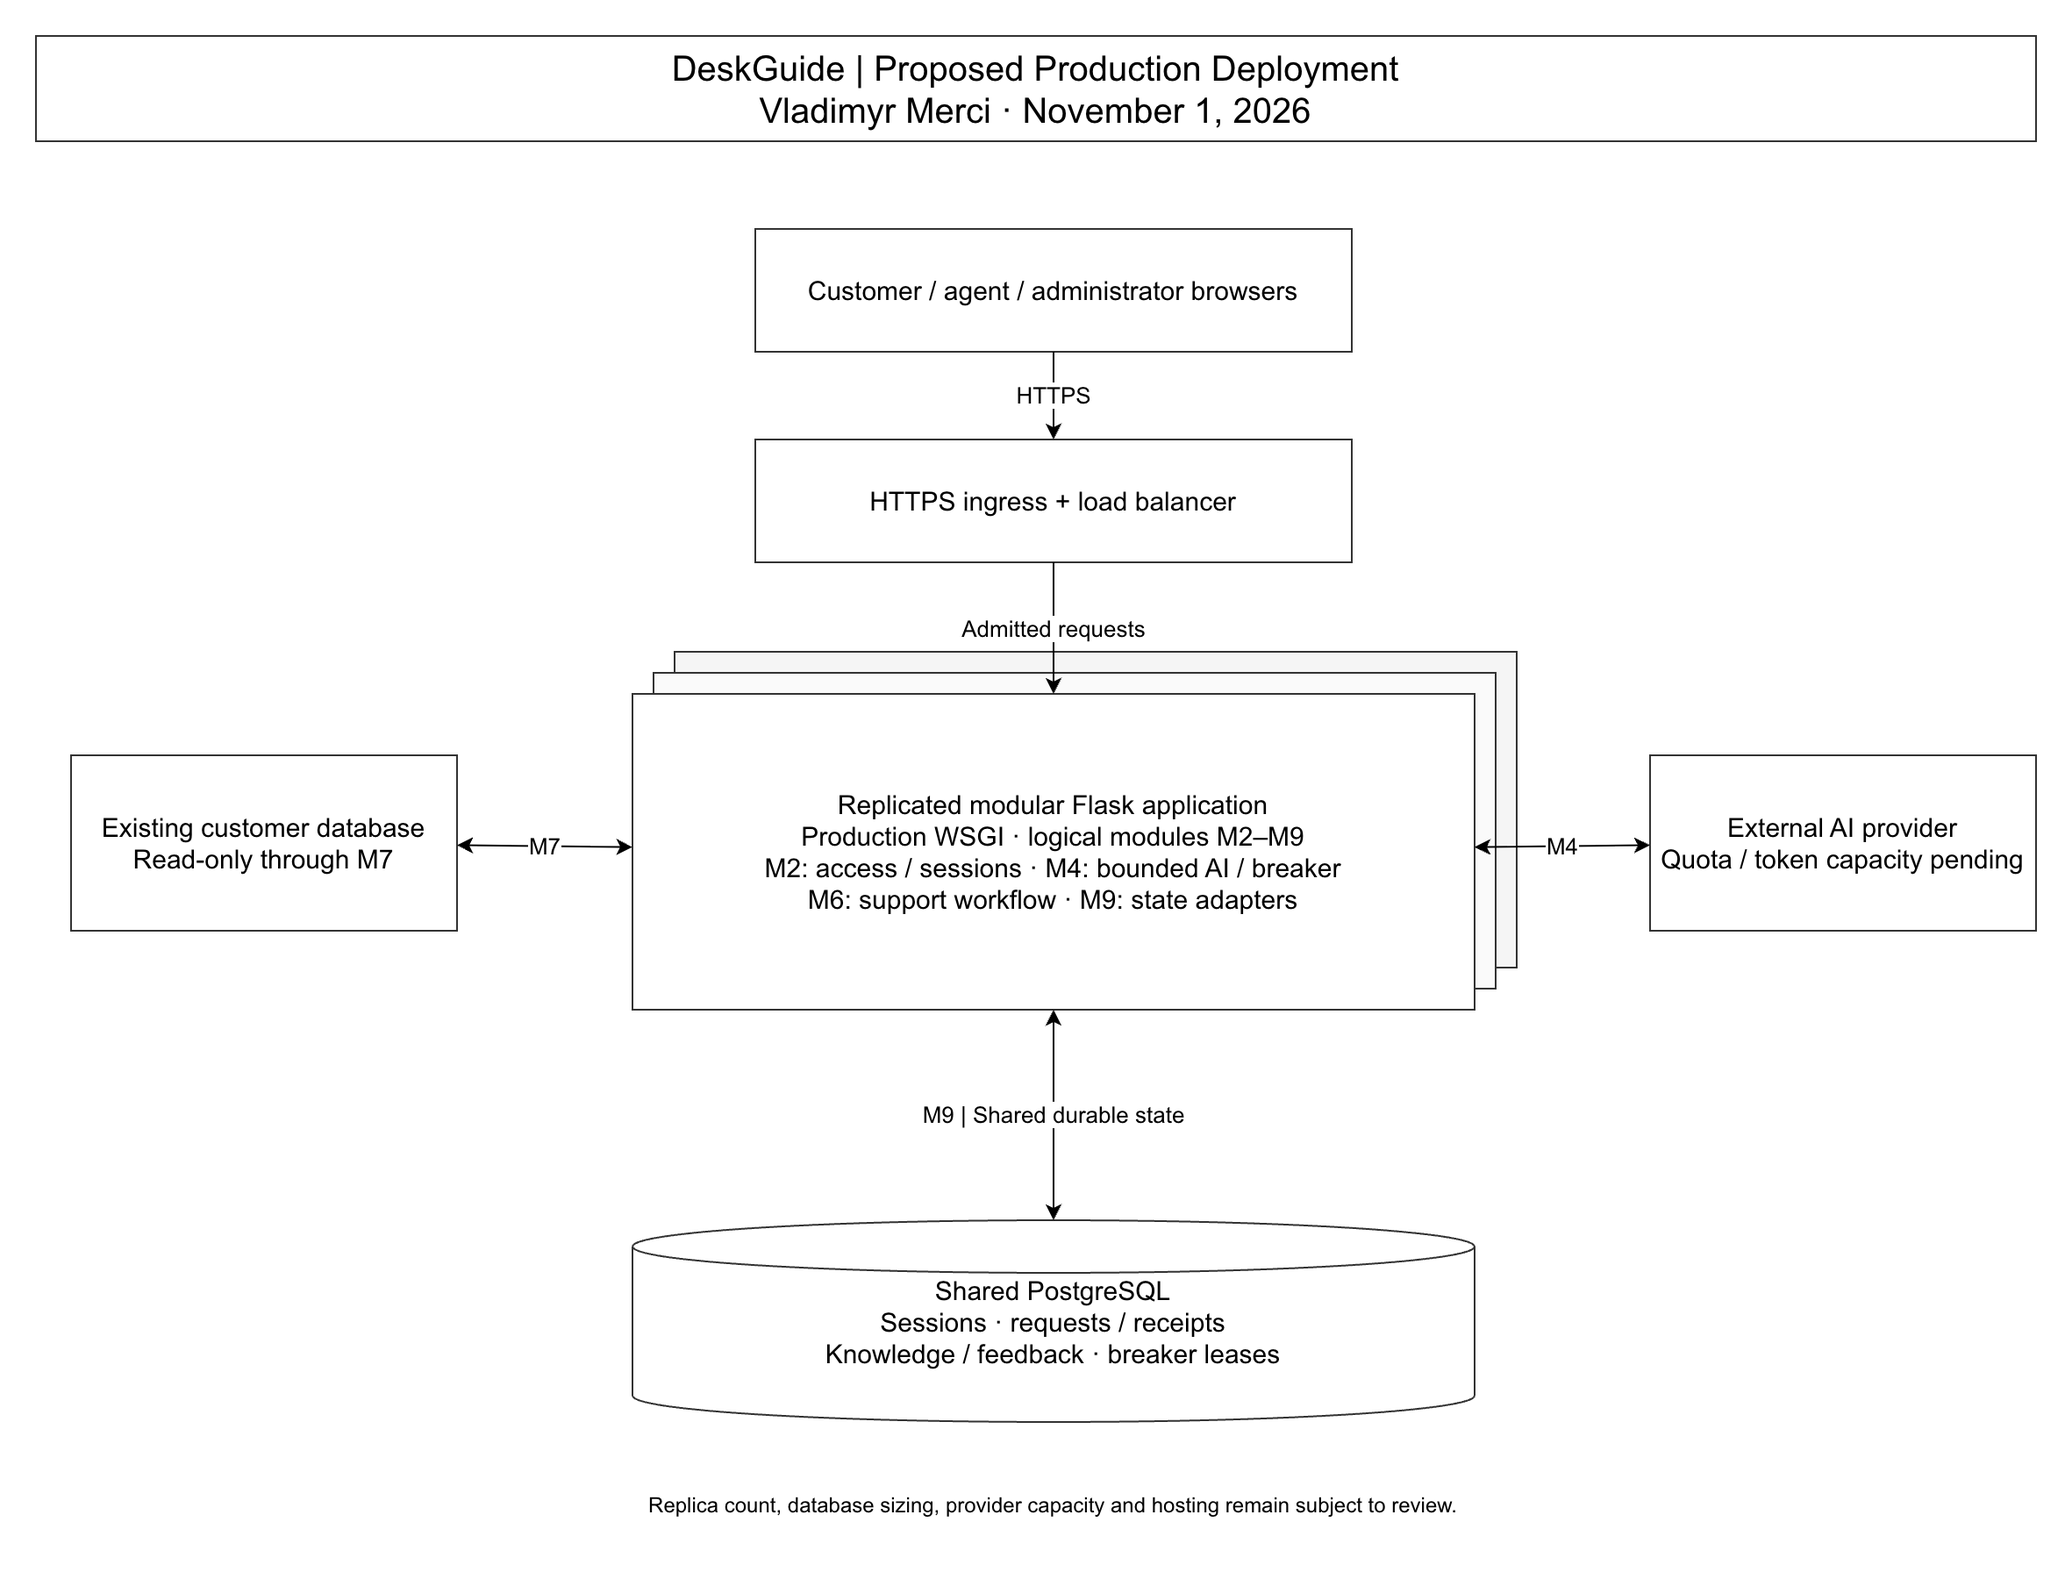
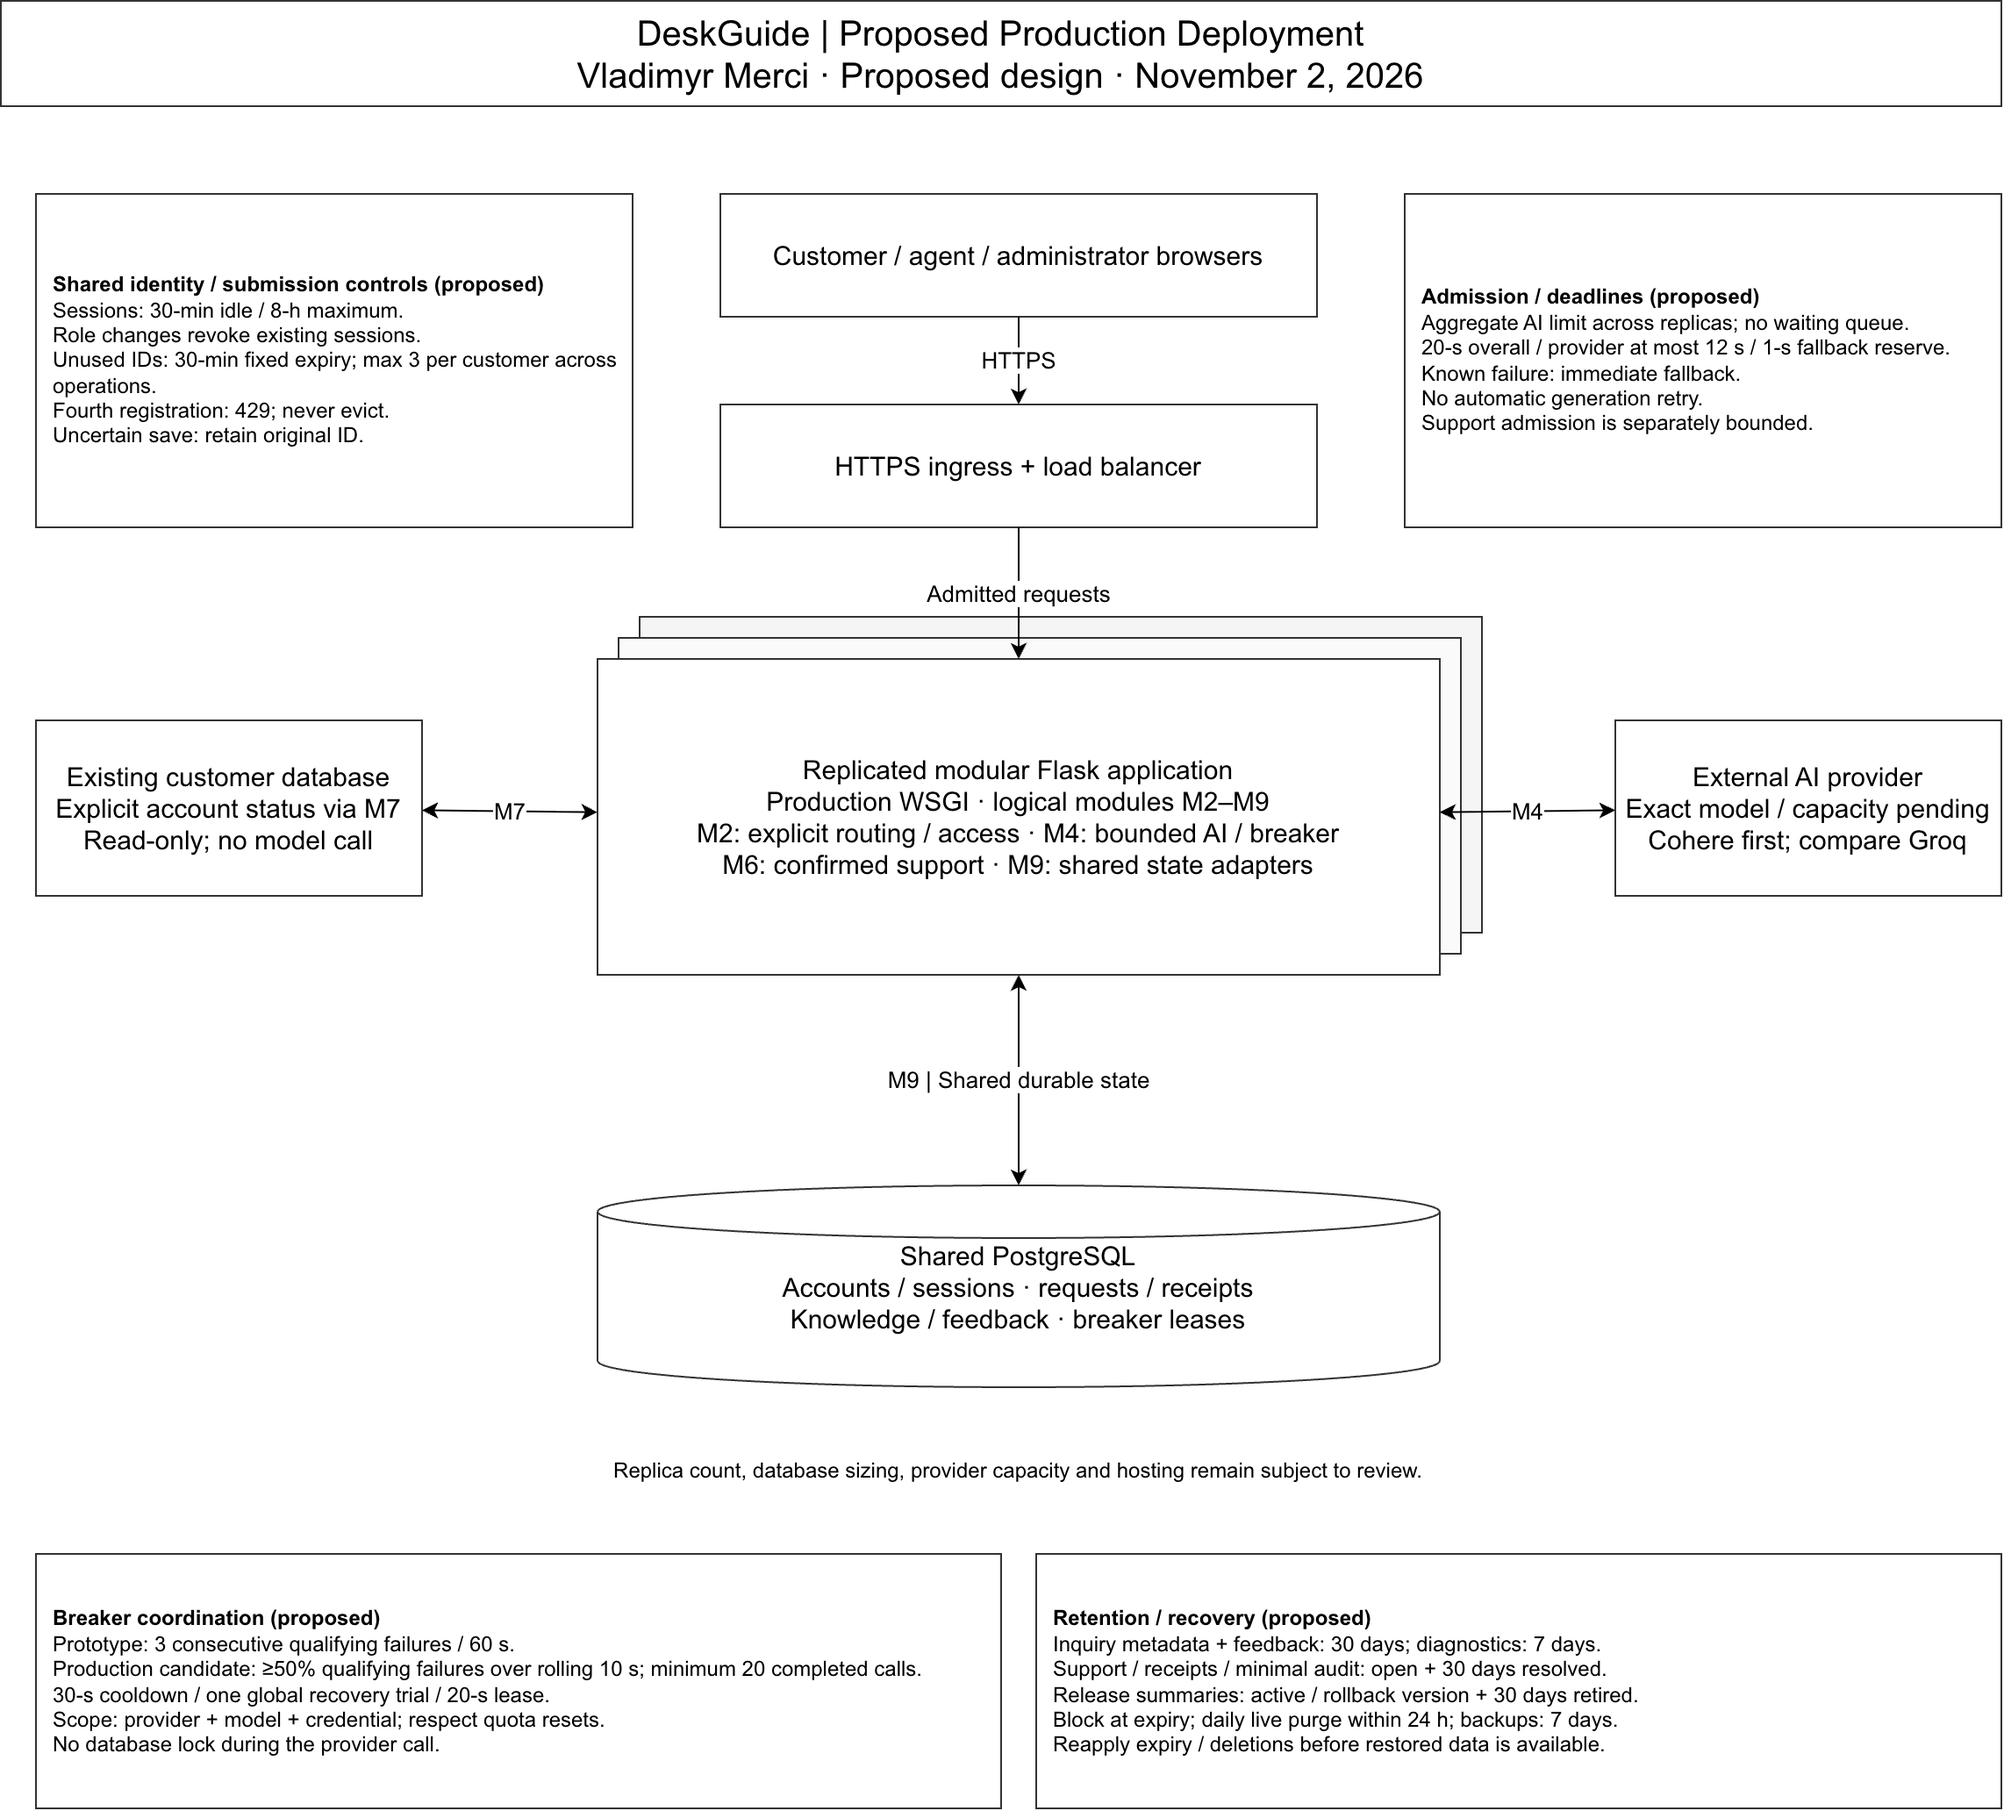
Align architecture diagrams with revised Unit 3 proposals

diff --git a/docs/unit-3/design-decisions-and-review-log.md b/docs/unit-3/design-decisions-and-review-log.md
@@ -1,6 +1,6 @@
 # Unit 3 Design Decisions and Review Log
 
-Coordinator: Vladimyr Merci, Lead Architect. Updated: November 2, 2026. Revision 5.
+Coordinator: Vladimyr Merci, Lead Architect. Updated: November 2, 2026. Revision 6.
 
 I have worked through the open architecture questions and collected my proposed solutions here. Please review the items assigned to your role, flag concerns, and provide the requested clarification or evidence. I will reconcile the replies before assembling the final specification.
 
@@ -20,7 +20,7 @@ I have worked through the open architecture questions and collected my proposed 
 | [David's Draft 3.1 review](https://github.com/vlad8110/deskguide/pull/17#pullrequestreview-5738959296) | November 2, review of `0e7f855` | Conditional acceptance of 30-minute/eight-hour sessions and 30-minute unused IDs; save-metric, retention, evidence and breaker follow-up |
 | [Assignment requirements](assignment-requirements.md) | Course instructions linked there | Diagram, typed contracts, 500-word rationale; 10,000 concurrent users without a specified inquiry frequency or latency target |
 
-The [shared Google Doc](https://docs.google.com/document/d/1wdhA6LgOib5h5mo8p6onD87kleM75OCan0gPUZMNuC4/edit) and [shared draw.io diagram](https://app.diagrams.net/#G1E3yDdOnoZSku1W8ejSJnkibDA3NcrGXO) remain the editable architecture review sources. The [complete architecture review document](architecture-first-draft/architecture-review.md), written sections and two-page diagram copies are the November 1 shared-source snapshots. The [November 2 proposed decisions](proposed-decisions.md) are the current review direction; shared-source alignment and final team agreement remain pending.
+The [shared Google Doc](https://docs.google.com/document/d/1wdhA6LgOib5h5mo8p6onD87kleM75OCan0gPUZMNuC4/edit) and [shared draw.io diagram](https://app.diagrams.net/#G1E3yDdOnoZSku1W8ejSJnkibDA3NcrGXO) remain the editable architecture review sources. The [two-page diagram and PNGs](architecture-first-draft/README.md#diagrams) reflect the November 2 proposals. The [complete architecture review document](architecture-first-draft/architecture-review.md) and written sections retain the November 1 Google Doc wording. Written-source alignment and final team agreement remain pending.
 
 ## 2. Established direction and approval boundaries
 
@@ -291,7 +291,7 @@ Responses to the [complete revised proposal](proposed-decisions.md) are due **Tu
 
 David reviews architecture, Collins contracts, Hanlin AI flows and Vlad verification. Reconcile M1–M9/C1–C10, account/status selectors, permissions, exact state names, bounds, errors, retention, release governance and provider constraints. Hanlin's V-prefixed proposed values and David's V-prefixed test cases are different numbering systems.
 
-The November 1 shared Google Doc/draw.io and repository source snapshots await the November 2 alignment walkthrough. Keep that baseline distinct from the current GitHub proposal. Align the final document, diagram, contracts and rationale, then obtain all four explicit reviews of one identified final version.
+The shared draw.io and repository diagram/PNG copies now reflect the November 2 proposals. The November 1 Google Doc wording and written snapshots await the next alignment walkthrough. Align the final document, diagram, contracts and rationale, then obtain all four explicit reviews of one identified final version.
 
 **Evidence/status:** Vlad reviewed the proposed direction and selected David as backup release authorizer. Final team approval, shared-source alignment and submission remain pending.
 
@@ -345,3 +345,4 @@ After the response cutoff I will consolidate remaining findings and align the fi
 | 3 | 2026-11-01 | David's review recorded; service target, registered submission IDs and focused owner requests | Proposals pending responses and final agreement |
 | 4 | 2026-11-01 | Shared architecture and component/deployment diagram copies aligned with the then-current proposals | Owner evidence and final team approval pending |
 | 5 | 2026-11-02 | Draft 3.1 and David's latest reviews; revised 14-topic proposals, David as backup authorizer, refined measurements/retention/breaker and November 3 response cutoff | Team evidence, shared-source alignment and final-version approvals pending |
+| 6 | 2026-11-02 | Shared component/deployment diagrams revised for current proposals; editable source and PNG previews refreshed | Written-source alignment, owner evidence and final-version approvals pending |

diff --git a/docs/unit-3/architecture-first-draft/README.md b/docs/unit-3/architecture-first-draft/README.md
@@ -1,6 +1,6 @@
 # Unit 3 architecture review
 
-Author: Vladimyr Merci. November 1 shared-source snapshots. Current review direction: [November 2 proposed decisions](../proposed-decisions.md). Shared-source alignment and final approval pending.
+Author: Vladimyr Merci. November 2 diagram revision; November 1 written-source snapshots. Current review direction: [November 2 proposed decisions](../proposed-decisions.md). Written-source alignment and final approval pending.
 
 Read the [complete architecture review document](architecture-review.md), the [Design Decisions and Review Log](../design-decisions-and-review-log.md), and the [rationale draft](../design-rationale.md).
 
@@ -16,7 +16,7 @@ Read the [complete architecture review document](architecture-review.md), the [D
 
 ## Diagrams
 
-The [editable draw.io source](deskguide-unit-3-architecture.drawio) contains two pages: **Component architecture** and **Production deployment**.
+The [editable draw.io source](deskguide-unit-3-architecture.drawio) contains two pages: **Component architecture** and **Production deployment**, revised November 2 to reflect the current proposals.
 
 ### Component architecture
 
@@ -28,7 +28,7 @@ The [editable draw.io source](deskguide-unit-3-architecture.drawio) contains two
 
 M1–M9 are logical modules. The production proposal replicates one modular Flask application behind HTTPS ingress/load balancing with shared PostgreSQL state. The workload assumption is 10,000 active customer sessions averaging one inquiry per minute, approximately 167 inquiries per second. Capacity remains untested.
 
-Provider/model capacity, resource sizing, session and unused-ID lifetimes, runtime evidence-support rules, and breaker update details remain assigned for review. See the [review log](../design-decisions-and-review-log.md) for owners and evidence requests.
+The diagrams include explicit account-status routing, proposed session/ID limits, non-author release authorization with David as backup, fail-closed evidence checking, and shared admission, breaker and retention policies. Provider/model capacity, resource sizing, executable evidence-support rules and exact breaker update behavior remain assigned for review. See the [review log](../design-decisions-and-review-log.md) for owners and evidence requests.
 
 ## Shared editing sources
 
@@ -36,4 +36,4 @@ Provider/model capacity, resource sizing, session and unused-ID lifetimes, runti
 - [Shared draw.io diagram](https://app.diagrams.net/#G1E3yDdOnoZSku1W8ejSJnkibDA3NcrGXO)
 - [Same diagram in Google Drive](https://drive.google.com/file/d/1E3yDdOnoZSku1W8ejSJnkibDA3NcrGXO/view)
 
-The shared files remain the editable architecture sources; these repository copies reflect the November 1 review draft. Follow the [Week 3 schedule](../week-3-delivery-schedule.md) for team agreement and submission.
+The shared files remain the editable architecture sources. Diagram copies reflect the November 2 revision; written copies still reflect the November 1 Google Doc. Follow the [Week 3 schedule](../week-3-delivery-schedule.md) for team agreement and submission.

diff --git a/docs/unit-3/contributions.md b/docs/unit-3/contributions.md
@@ -2,7 +2,7 @@
 
 | Member | Assigned lead | Actual contribution/evidence | Peer review | Final approval |
 | --- | --- | --- | --- | --- |
-| Vladimyr Merci | Architecture and coordination | Initial planning and [revised architecture](architecture-first-draft/README.md); November 1 shared-source alignment; November 2 [14-topic revised proposal](proposed-decisions.md), source reconciliation and response cutoff; [D01–D21 review log](design-decisions-and-review-log.md), evidence/ownership requests and [rationale draft](design-rationale.md) incorporating team inputs | First draft reviewed; revised combined version and teammate draft reviews pending | Pending |
+| Vladimyr Merci | Architecture and coordination | Initial planning and [revised architecture](architecture-first-draft/README.md); November 1 shared-source alignment; November 2 [14-topic revised proposal](proposed-decisions.md), revised component/deployment diagrams and PNGs, source reconciliation and response cutoff; [D01–D21 review log](design-decisions-and-review-log.md), evidence/ownership requests and [rationale draft](design-rationale.md) incorporating team inputs | First draft reviewed; revised combined version and teammate draft reviews pending | Pending |
 | Hanlin Wang | Interface contracts | [PR #17](https://github.com/vlad8110/deskguide/pull/17), Draft 3.1 C1–C10 at `0e7f85585c5887999d78337084185538822a9096` | Collins and David submitted COMMENTED reviews; final resolution/approval pending | Pending |
 | Collins Amponsah | AI integration | [PR #16](https://github.com/vlad8110/deskguide/pull/16), integration flows at `bcf86e01b779436325c4956773cd91cffa7e8276`; [review questions on PR #17](https://github.com/vlad8110/deskguide/pull/17#pullrequestreview-5725100910) | Review of his draft pending | Pending |
 | David Warren | Quality/design verification | [PR #18](https://github.com/vlad8110/deskguide/pull/18), verification/findings/rationale input updated at `a9912c913e477b591bb801e48a5387a81b46104b`; [November 1 revised-architecture review](https://github.com/vlad8110/deskguide/pull/15#pullrequestreview-5730726420) and [November 2 Draft 3.1 review](https://github.com/vlad8110/deskguide/pull/17#pullrequestreview-5738959296) | Architecture review received; review of his package remains planned | Pending |

diff --git a/docs/unit-3/architecture.md b/docs/unit-3/architecture.md
@@ -2,7 +2,7 @@
 
 Lead: Vlad. Reviewer: David; Hanlin and Collins validate interfaces and AI boundaries.
 
-Status: [November 2 proposed decisions](proposed-decisions.md) available for team review; responses due **November 3, 2026, at 10:00 a.m. Eastern**. Read the [review log](design-decisions-and-review-log.md). The [complete architecture document and diagrams](architecture-first-draft/README.md) remain the November 1 shared-source snapshots pending alignment.
+Status: [November 2 proposed decisions](proposed-decisions.md) available for team review; responses due **November 3, 2026, at 10:00 a.m. Eastern**. Read the [review log](design-decisions-and-review-log.md). The [architecture review hub](architecture-first-draft/README.md) contains the November 2 revised diagrams and November 1 written-source snapshots; written alignment remains pending.
 
 ## Component inventory
 
@@ -45,7 +45,7 @@ Respond in your existing issue or section PR by **Tuesday, November 3, 2026, at 
 - David: denominator-aware service-level tests, expired-ID/duplicate races, session/ownership isolation and breaker recovery across replicas.
 - Vlad: reconcile the architecture, contracts and rationale and coordinate all four reviews of one final version.
 
-The shared Google Doc and draw.io file remain the editable architecture sources. Repository copies reflect the November 1 review draft. Final agreement and submission remain pending.
+The shared Google Doc and draw.io file remain the editable architecture sources. Diagram copies reflect the November 2 revision; written snapshots remain at November 1. Final agreement and submission remain pending.
 
 ## Backlog traceability
 

diff --git a/docs/unit-3/README.md b/docs/unit-3/README.md
@@ -14,7 +14,7 @@ Follow the [Week 3 delivery schedule](week-3-delivery-schedule.md) for section d
 
 The [Design Decisions and Review Log](design-decisions-and-review-log.md) consolidates D01–D21, the source of each concern, proposed solutions, owners, evidence requests and approval status. Review your assigned items and the [500-word rationale draft](design-rationale.md). Team agreement is pending.
 
-The [architecture source snapshots](architecture-first-draft/README.md) contain the November 1 shared document and two-page diagram. The [November 2 proposed decisions](proposed-decisions.md) are the current review direction; shared-source alignment remains pending.
+The [architecture source snapshots](architecture-first-draft/README.md) contain the November 1 written document and November 2 revised two-page diagram with fresh PNG previews. The [November 2 proposed decisions](proposed-decisions.md) are the current review direction; written-source and final-version alignment remain pending.
 
 1. Read [requirements](assignment-requirements.md) and [the kickoff](team-kickoff.md).
 2. Confirm your assigned issue, availability, and blockers in GitHub.

diff --git a/docs/unit-3/architecture-first-draft/architecture-review.md b/docs/unit-3/architecture-first-draft/architecture-review.md
@@ -1,6 +1,6 @@
 # DeskGuide Unit 3 — Architecture Review Draft
 
-*November 1 shared-source snapshot. Current direction: [November 2 proposed decisions](../proposed-decisions.md).*
+*November 1 written-source snapshot with November 2 diagram previews. Current direction: [November 2 proposed decisions](../proposed-decisions.md).*
 
 Vladimyr Merci | CMSC 495 Team 4 | November 1, 2026
 
